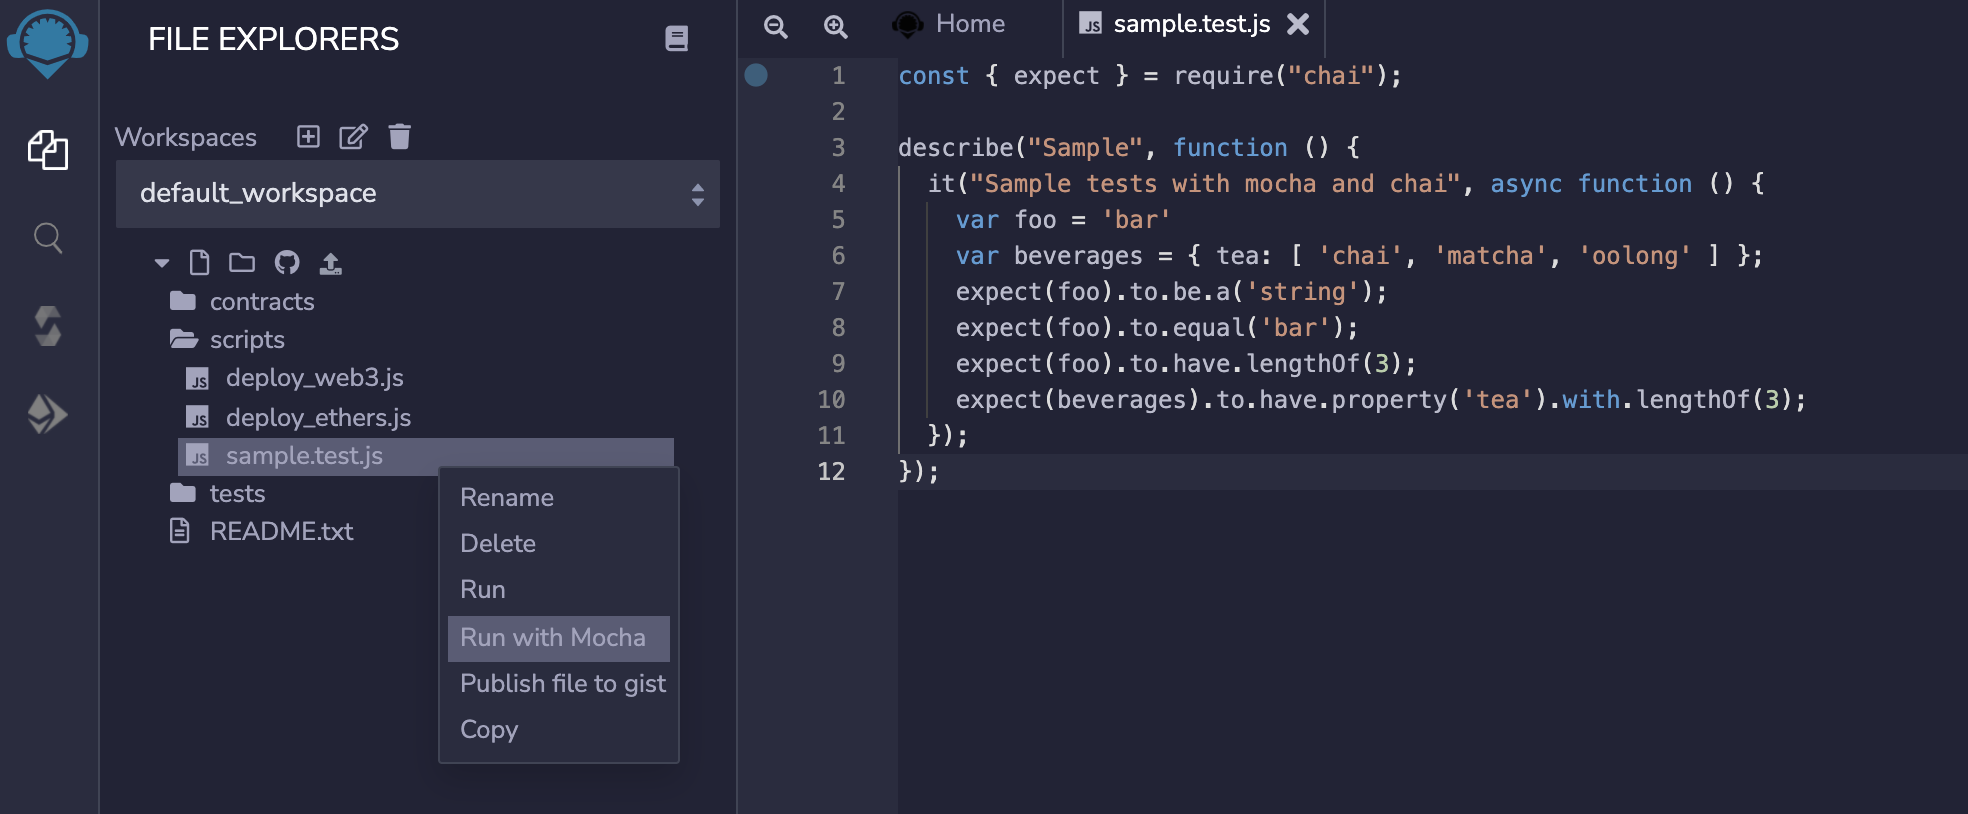
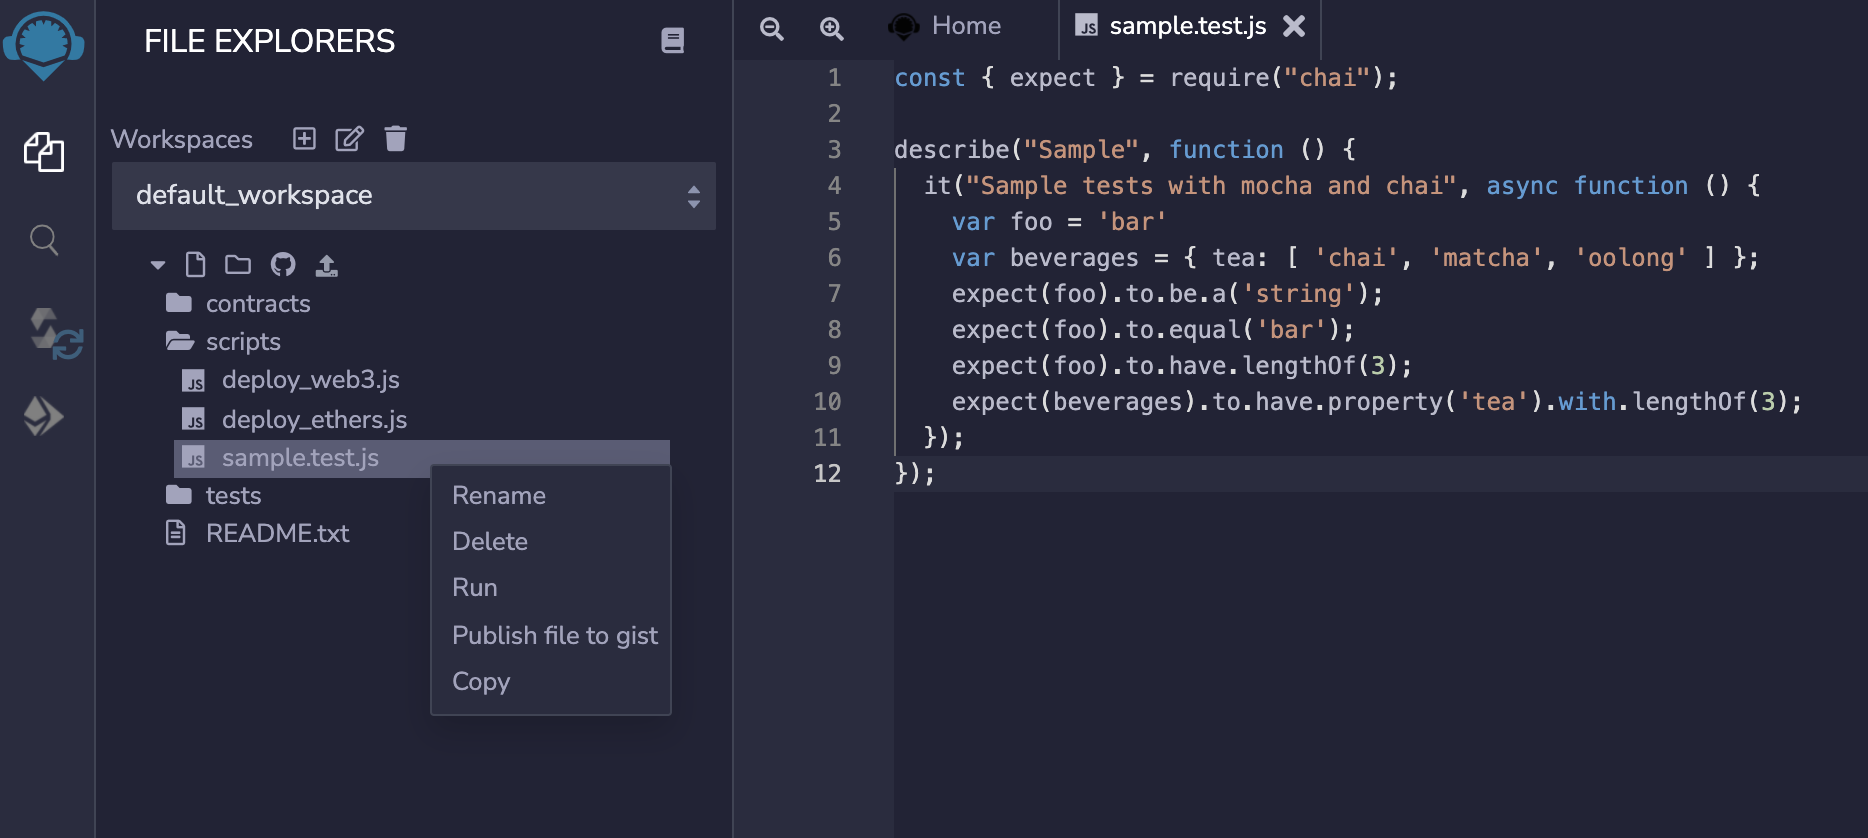
run with mocha removed

diff --git a/docs/testing_using_Chai_&_Mocha.md b/docs/testing_using_Chai_&_Mocha.md
@@ -32,11 +32,11 @@ describe("Sample", function () {
 
 ## Run tests
 
-Once done with writing the tests, right click on file name in `File Explorers` plugin. It will show some options along with option to `Run with Mocha`.
+Once done with writing the tests, right click on file name in `File Explorers` plugin. It will show some options along with option to `Run`. This `Run` option is used to run the JS scripts
 
 ![](images/run_with_mocha_option.png)
 
-Click on `Run with Mocha` option, tests will be executed and result will be shown on Terminal.
+Click on `Run`, tests will be executed and result will be shown on Terminal.
 
 ![](images/run_with_mocha_result.png)
 
